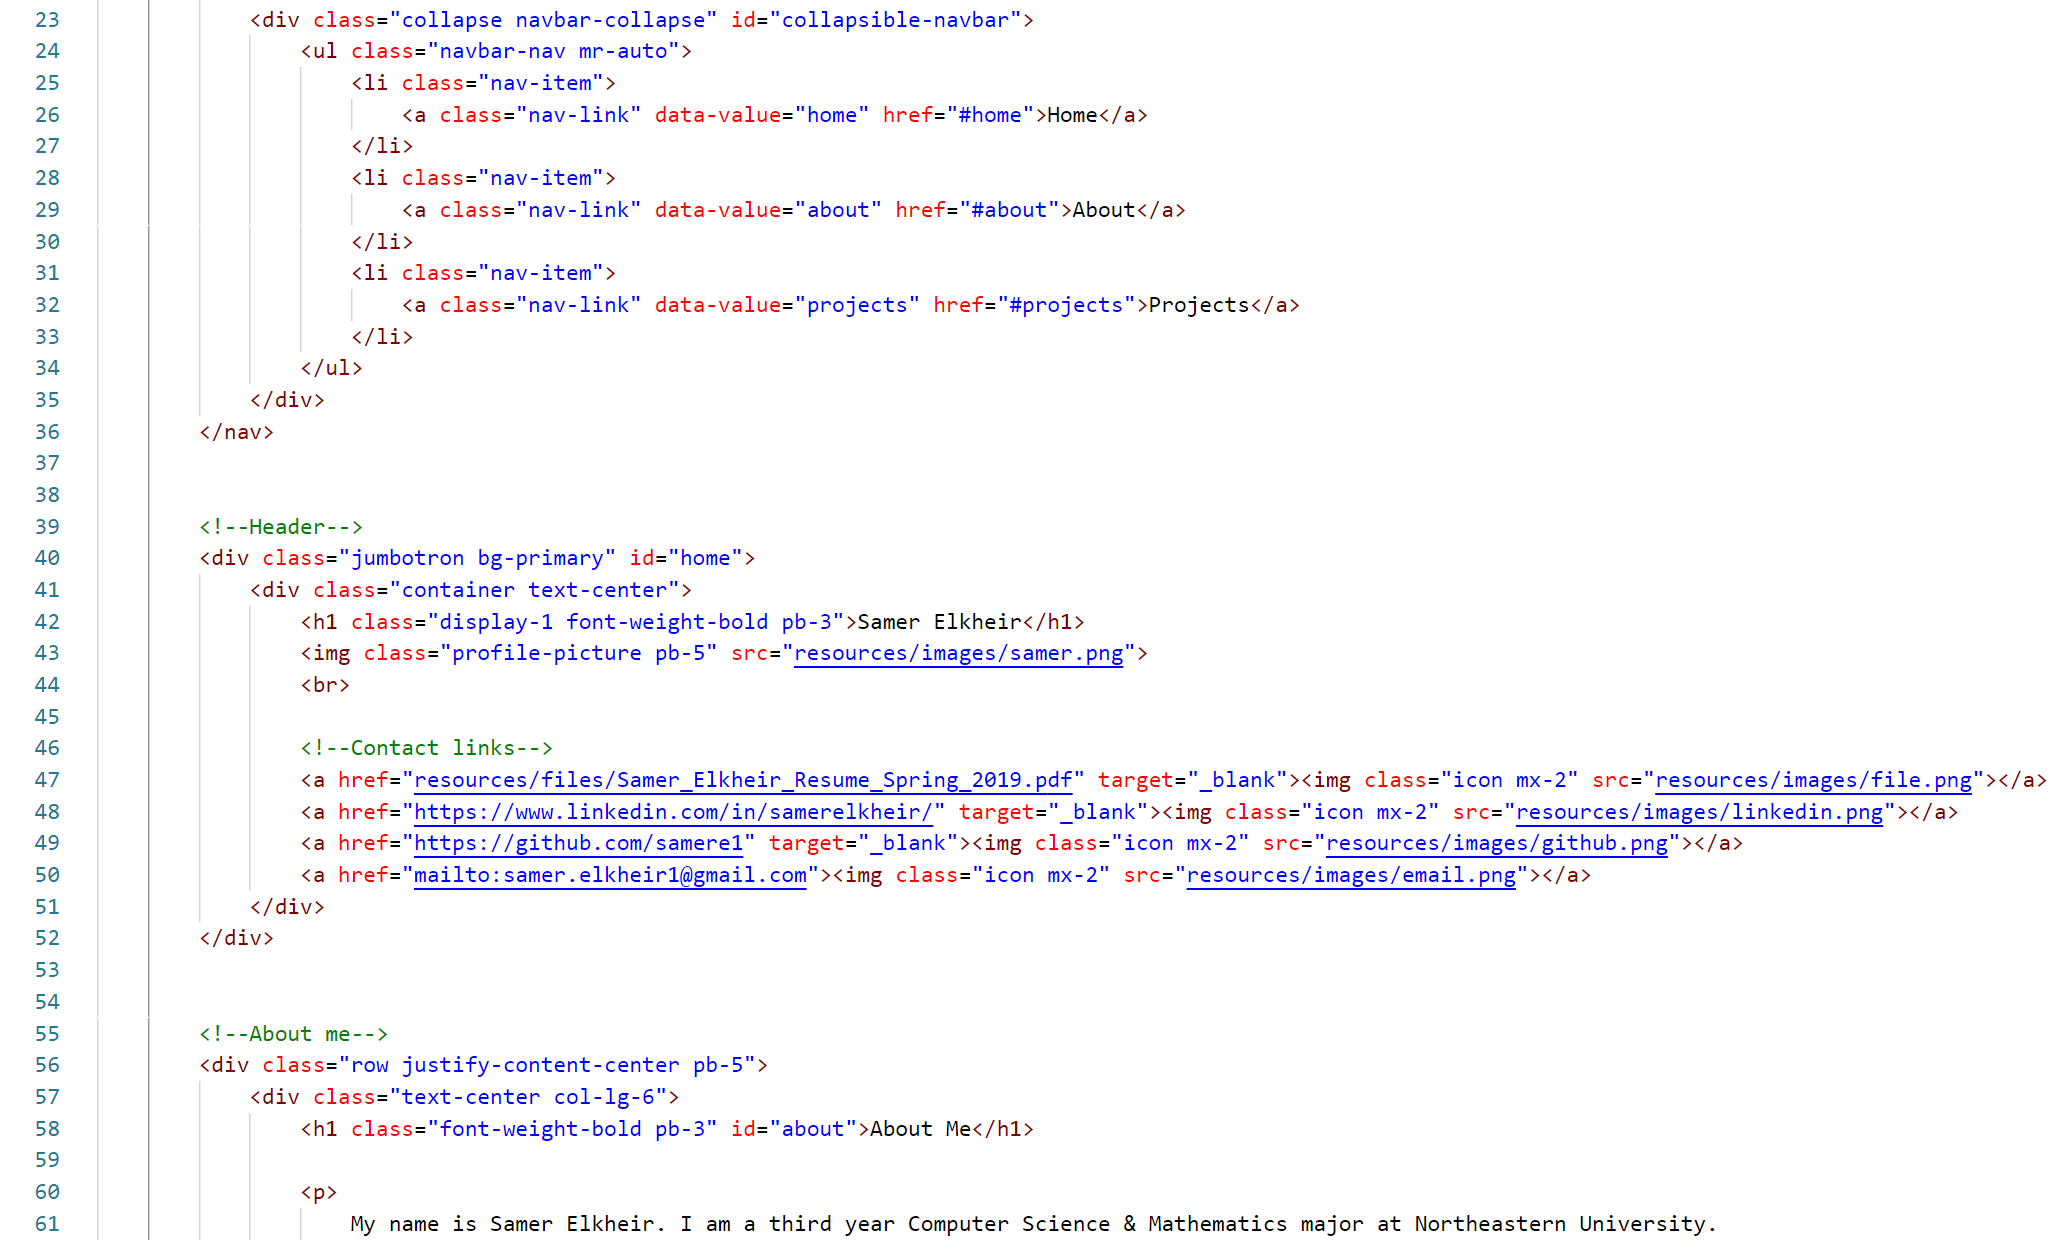
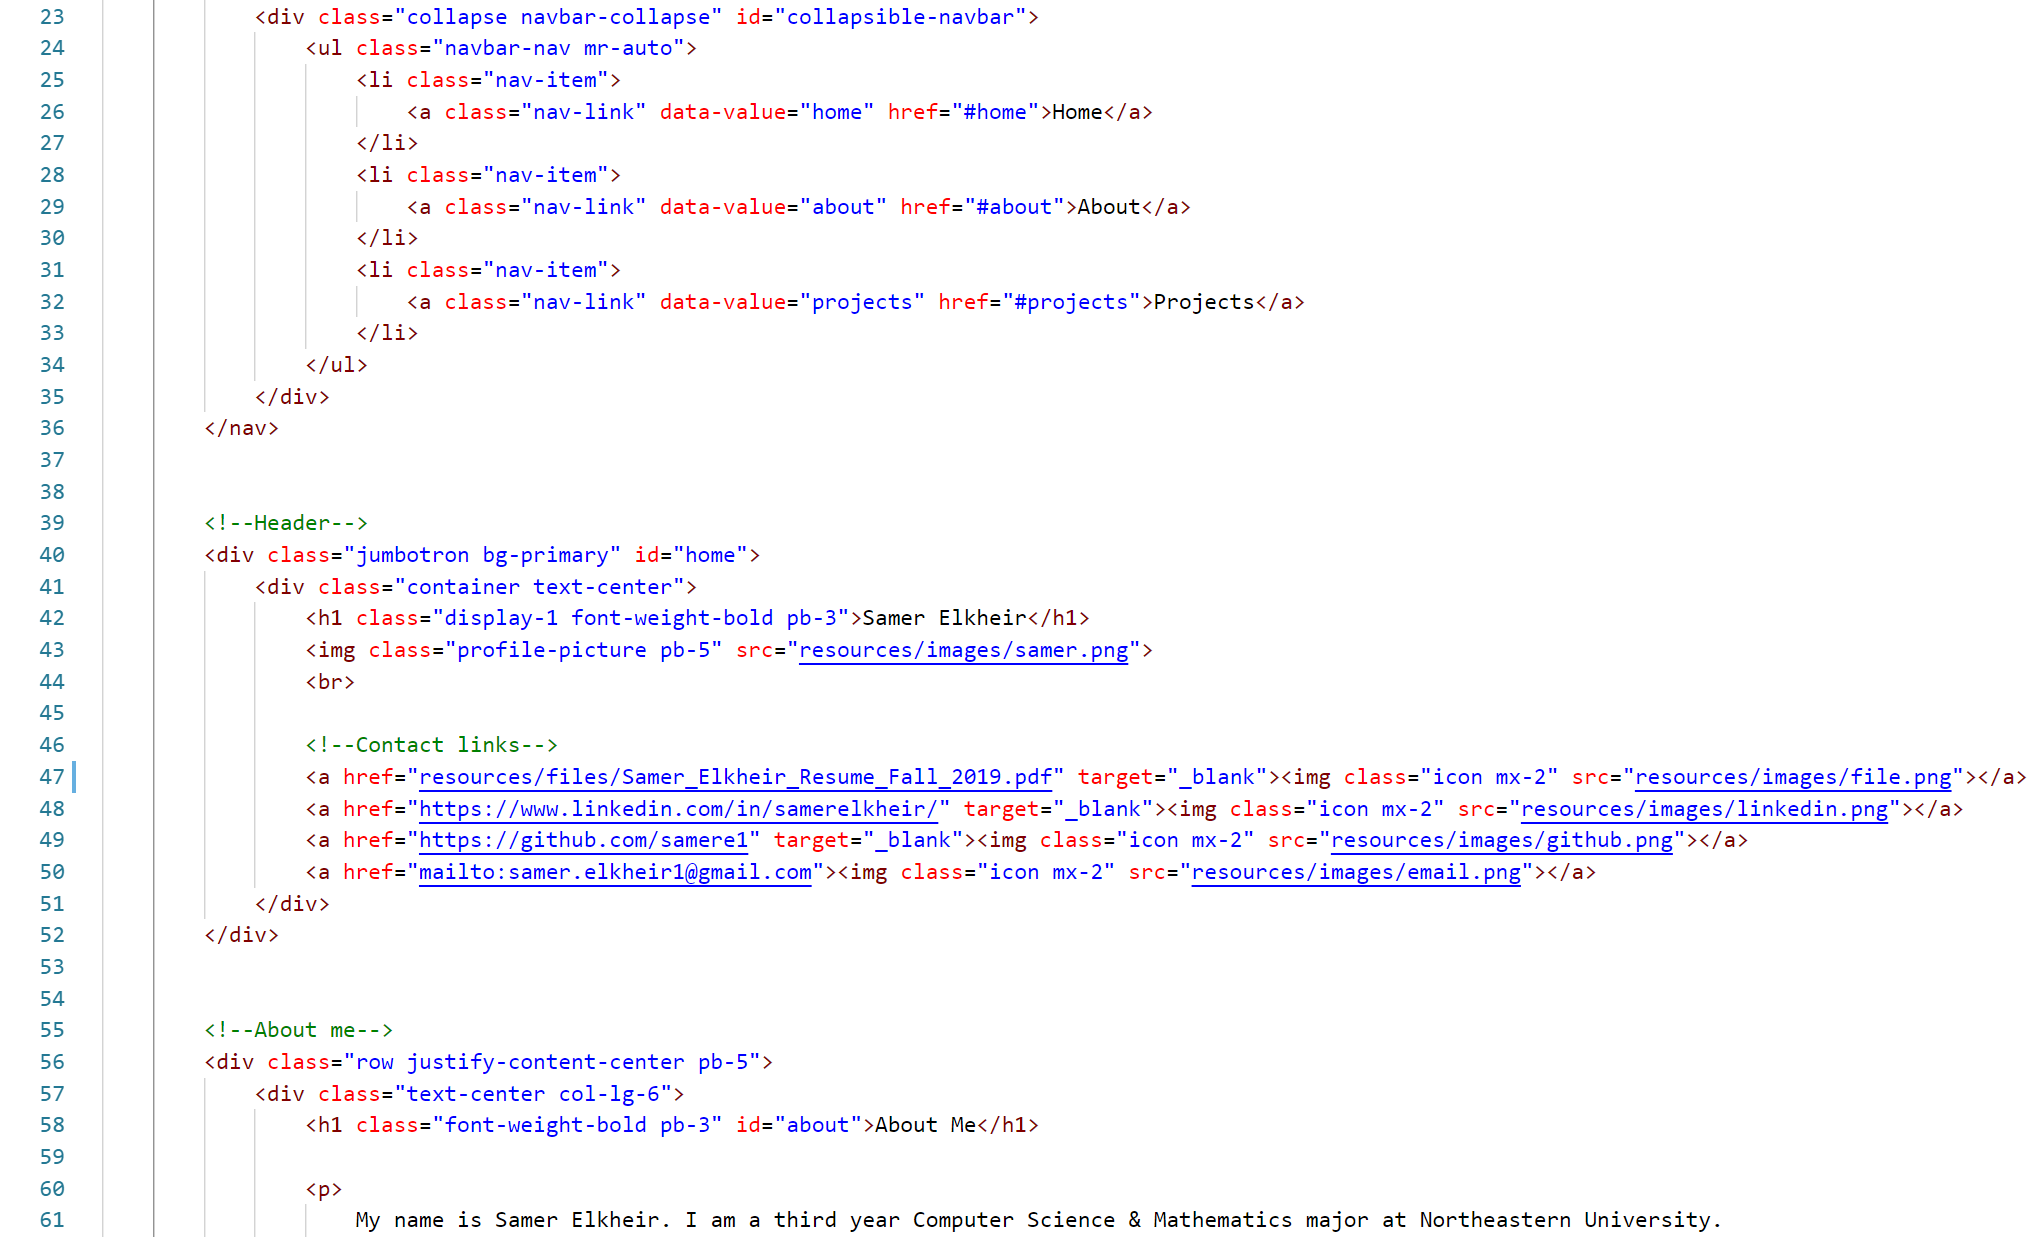
Renamed resume

diff --git a/index.html b/index.html
@@ -44,7 +44,7 @@
                 <br>
 
                 <!--Contact links-->
-                <a href="resources/files/Samer_Elkheir_Resume_Spring_2019.pdf" target="_blank"><img class="icon mx-2" src="resources/images/file.png"></a>
+                <a href="resources/files/Samer_Elkheir_Resume_Fall_2019.pdf" target="_blank"><img class="icon mx-2" src="resources/images/file.png"></a>
                 <a href="https://www.linkedin.com/in/samerelkheir/" target="_blank"><img class="icon mx-2" src="resources/images/linkedin.png"></a>
                 <a href="https://github.com/samere1" target="_blank"><img class="icon mx-2" src="resources/images/github.png"></a>
                 <a href="mailto:samer.elkheir1@gmail.com"><img class="icon mx-2" src="resources/images/email.png"></a>
@@ -206,7 +206,7 @@
                     </div>
 
                     <div class="col-6">
-                        <a href="resources/files/Samer_Elkheir_Resume_Spring_2019.pdf" target="_blank"><img class="icon mx-2" src="resources/images/file.png"></a>
+                        <a href="resources/files/Samer_Elkheir_Resume_Fall_2019.pdf" target="_blank"><img class="icon mx-2" src="resources/images/file.png"></a>
                         <a href="https://www.linkedin.com/in/samerelkheir/" target="_blank"><img class="icon mx-2" src="resources/images/linkedin.png"></a>
                         <a href="https://github.com/samere1" target="_blank"><img class="icon mx-2" src="resources/images/github.png"></a>
                         <a href="mailto:samer.elkheir1@gmail.com"><img class="icon mx-2" src="resources/images/email.png"></a>
@@ -215,7 +215,7 @@
             </div>
         </footer>
         
-        
+
         <!--JavaScript imports-->
         <script src="https://ajax.googleapis.com/ajax/libs/jquery/3.3.1/jquery.min.js"></script>
         <script type="text/javascript" src='js/bootstrap.min.js'></script>
